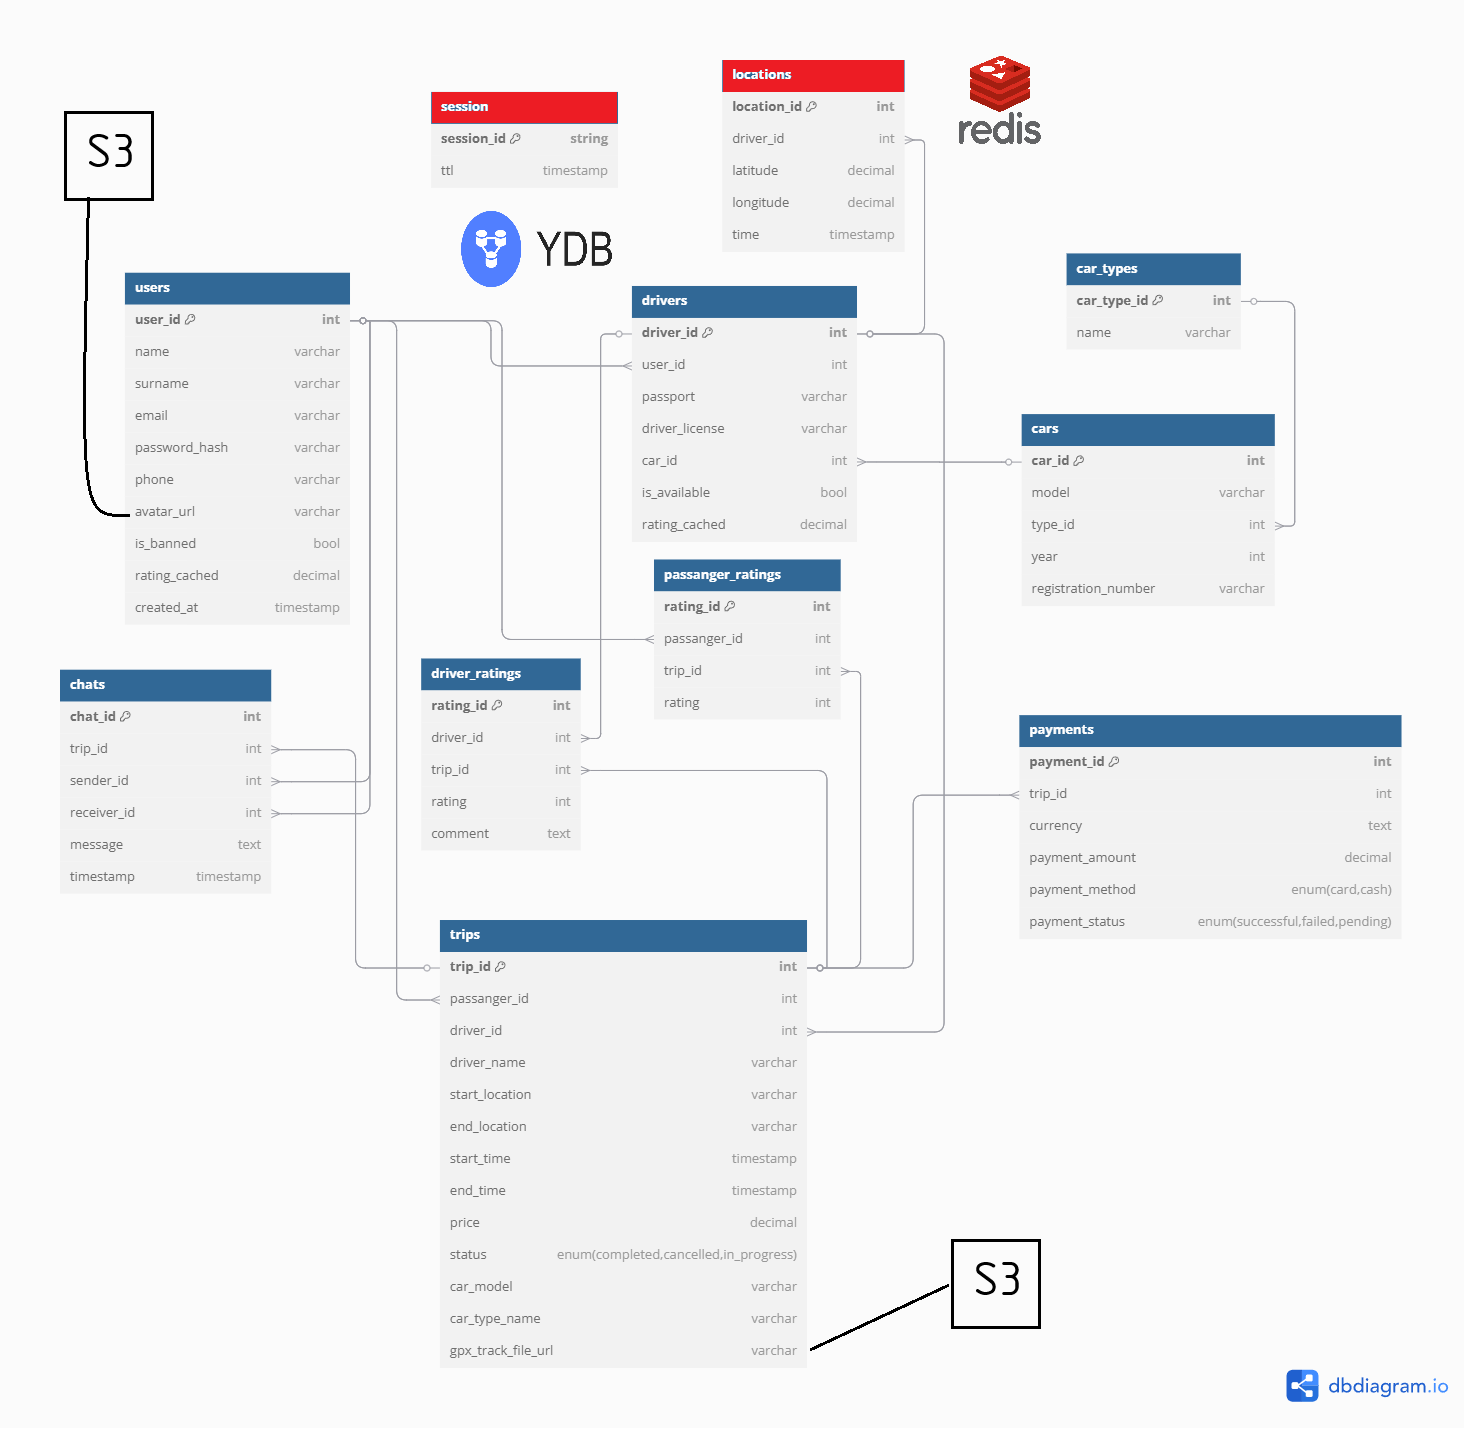
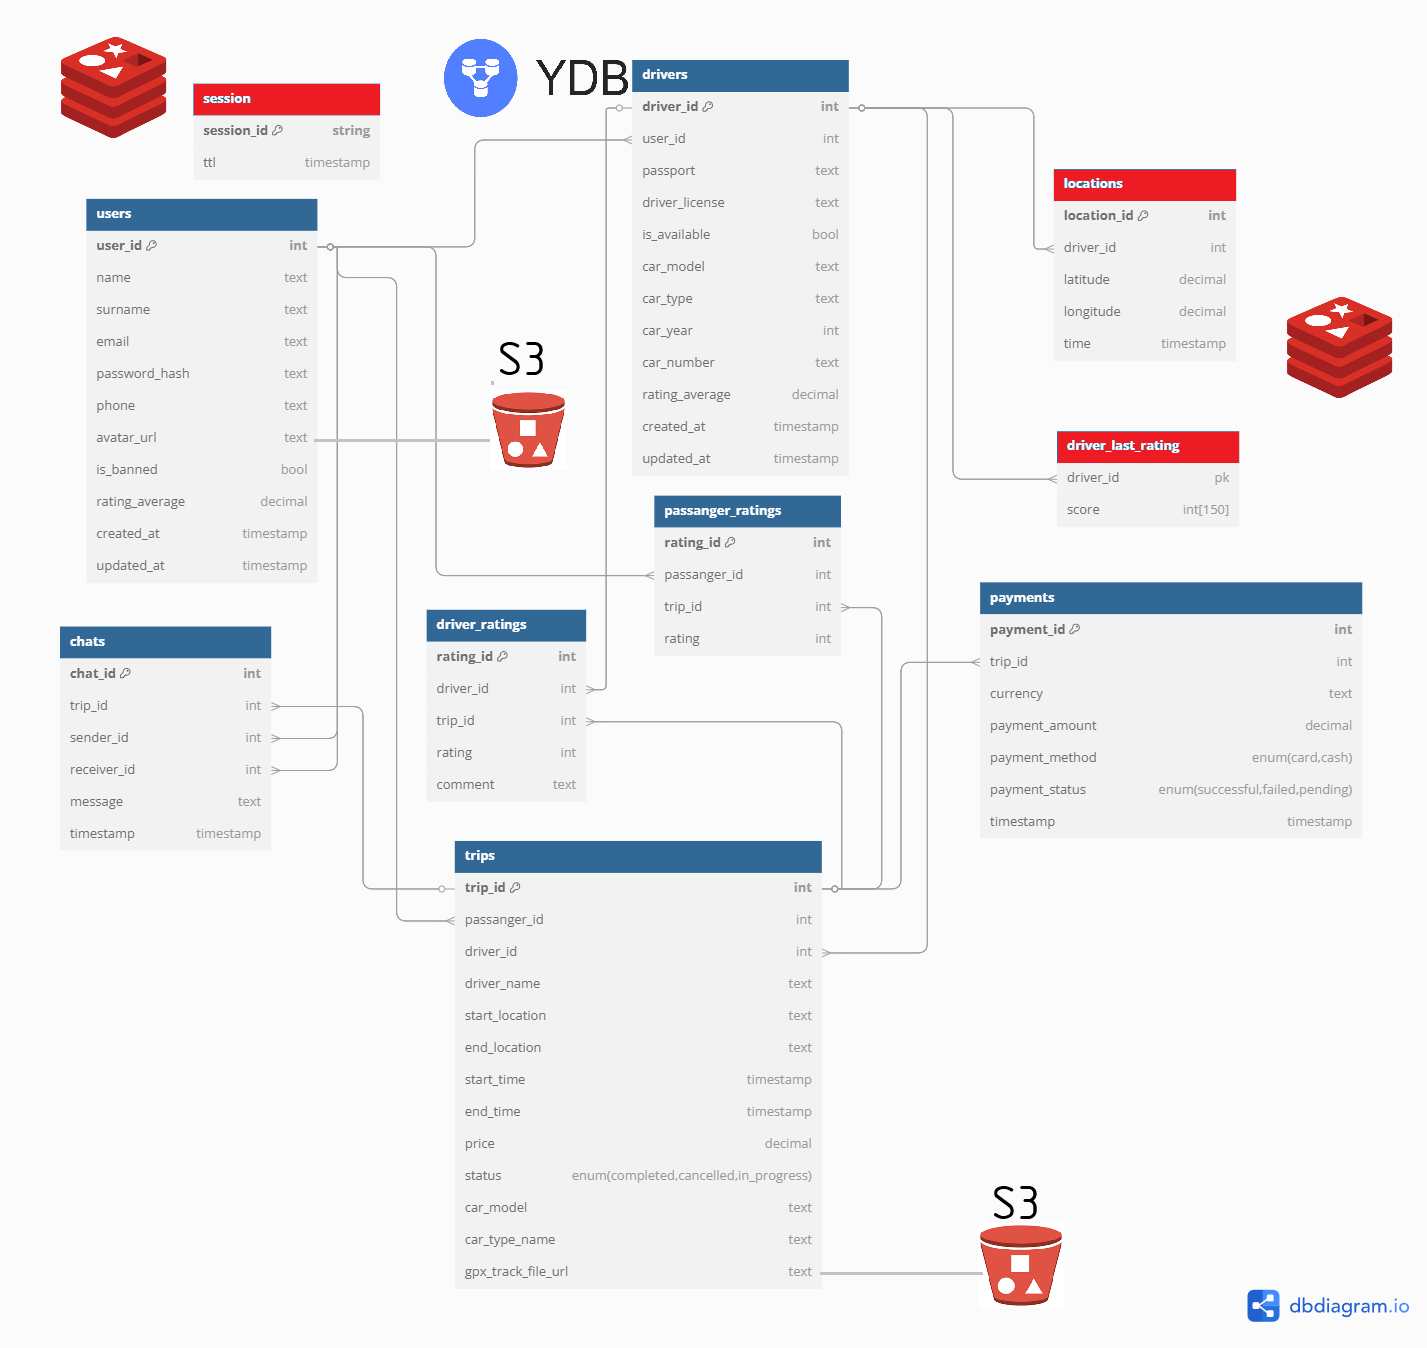
fix: hw 6 issues is resolved

diff --git a/README.md b/README.md
@@ -357,24 +357,6 @@ kubernetes удобен, поскольку:
 | **session** | Содержит сессии пользователя | `session_id`: id-сессии  `ttl`: время жизни |
 ### Размеры данных и нагрузки на чтение/запись
 
-В Таблице представлен размер данных  
-| Таблица               | Размер на 1 запись | Общий размер |
-|-----------------------|--------| -- |
-| **users**             | Пусть длина хэша (32 + 8 соль) байт, тогда размер записи будет (8 + 64 + 64 + 64 + 40 + 12 + 255 + 8) = 515 Б | 23,5 ГБ |
-| **passengers**        | 16 Б       | 0.7 ГБ |
-| **drivers**           | (24 + 32) Б  |   0.08 ГБ    |
-| **car_types**         | 24 Б      | 144 байта |
-| **cars**              | 62 Б       | 0.087 ГБ |
-| **trips**             | Оценим в 145 Б/запись  | 324,1 ГБ |
-| **chats**             | Предположим, что средняя длина сообщения ~100 символов, т.е. ~200Б. (8 + 8 +8 + 8 + 200 + 8) = 240 Б | 134.1 ГБ  |
-| **driver_ratings**    | Коментарий оценим в 60Б, тогда получим 92Б итого | 20.6 ГБ |
-| **passenger_ratings** |  32Б      | 50.1 ГБ |
-| **locations**         |  Следует использовать in-memory решения для быстрого доступа у данным маршрута. Порядка 40 Б/запись  | 65.4 ГБ/сутки* |
-| **payments**          |  enum'ы занимают порядка 2 байт. Всего 26Б/запись  | 58.1 ГБ |
-| **session** | In-memory. зашифрованные AES256 данные + TTL. 40 байт | 0.17 ГБ/сутки* |
-
-(*) Предполагается, что время жизни записей 1 день.
-
 | Таблица               | Чтение, IOPS | Запись, IOPS | Примечание |
 |-----------------------| -------- | ---- | ----------- |
 | **users**             | 327 | 45 | Запрос на получение осуществляется каждый раз, как происходит вход пользователя в приложение. При записи учтено изменение данных из предположения, что каждый 10000-ый пользователь меняет данные |
@@ -406,29 +388,44 @@ kubernetes удобен, поскольку:
 
 ![img](img/db_physical.png)
 
+### Размеры данных 
+
+В Таблице представлен размер данных  
+| Таблица               | Размер на 1 запись | Общий размер |
+|-----------------------|--------| -- |
+| **users**             | Пусть длина хэша (32 + 8 соль) байт, тогда размер записи будет (8 + 64 + 64 + 64 + 40 + 12 + 255 + 8 + 1 + 8 + 8 + 8) = 540 Б | 54 ГБ |
+| **drivers**           | 289 Б  |   32.1 ГБ    |
+| **trips**             | Оценим в 483 Б/запись  | 16.23 ТБ |
+| **chats**             | Предположим, что средняя длина сообщения ~100 символов, т.е. ~200Б. (8 + 8 +8 + 8 + 200 + 8) = 240 Б | 1.99 ТБ  |
+| **driver_ratings**    | Коментарий оценим в 60Б, тогда получим 92Б итого | 618.24 ГБ |
+| **passenger_ratings** |  32Б      | 752.64 ГБ |
+| **locations**         |  Следует использовать in-memory решения для быстрого доступа у данным маршрута. Порядка 40 Б/запись  | 65.4 ГБ/сутки* |
+| **payments**          |  enum 4 байта, валюта 32 байта. Всего 72 Б/запись  | 1.9 ТБ |
+| **session** | In-memory. зашифрованные AES256 данные + TTL. 40 байт | 0.17 ГБ/сутки* |
+| **driver_last_rating** | 150 чисел последних оценок. 2450 Б | 1.75 ГБ |
+
+(*) Предполагается, что время жизни записей 1 день.
+
 ### Индексы
 
 | Таблица | Индекс |
 | ------- | ------ |
-users | user_id - первичный ключ
-| drivers | driver_id - первичный ключ <br> user_id - индекс для быстрого поиска водителя по id пользователя |
-| car_types | car_type_id - первичный ключ |
-| cars | car_id - PK |
-| trips | trip_id - PK <br> driver_id (**hash**) - быстрый поиск по водителям <br> passenger_id (**hash**) - быстрый поиск по пассажирам (история поездок) |
-| chat | chat_id - PK <br> trip_id (**hash**) - для поиска по поездке |
-| driver_ratings | rating_id - PK <br> driver_id (**hash**) - выстрый поиск по водителю |
-| passenger_ratings | rating_id - PK <br> passenger_id (**hash**) - выстрый поиск по пассажиру |
-| payments | payment_id - PK <br> trip_id (**hash**) - для проверки статуса оплаты по конкретной поездке|
+| drivers | user_id (**hash**) - индекс для быстрого поиска водителя по id пользователя |
+| trips | driver_id (**hash**) - быстрый поиск по водителям <br> passenger_id (**hash**) - быстрый поиск по пассажирам (история поездок) |
+| chat | trip_id (**hash**) - для поиска по поездке |
+| driver_ratings | driver_id (**hash**) - выстрый поиск по водителю |
+| passenger_ratings | passenger_id (**hash**) - выстрый поиск по пассажиру |
+| payments | trip_id (**hash**) - для проверки статуса оплаты по конкретной поездке|
 
 ### Денормализация
 
-Чтобы избежать большого количество JOINов следует применять денормализацию. В данном случае запросы на чтение происходят чаще, поэтому надо оптимизировать некоторые таблицы на чтение. 
+Чтобы избежать JOINов следует применять денормализацию. В данном случае запросы на чтение происходят чаще, поэтому надо оптимизировать некоторые таблицы на чтение. 
 
-| Таблица | денормализация |
+<!-- | Таблица | денормализация |
 | - | - |
 | trips | Добавим поля: <br> driver_name <br> car_model <br> car_type |
 | drivers | rating_mark - закешированный рейтинг, который обнавляется асинхронно после добавления новых отзывов |
-| users | rating_mark - закешированный рейтинг, который обнавляется асинхронно после добавления новых отзывов | 
+| users | rating_mark - закешированный рейтинг, который обнавляется асинхронно после добавления новых отзывов |  -->
 
 ### Выбор СУБД
 
@@ -440,37 +437,25 @@ users | user_id - первичный ключ
 | - | - | - |
 | users | YDB |  Критичные данные: учетная запись. транзакции
 | drivers | YDB | Данные о водителе (паспорт) и автомобиле (СТС) транзакции
-| car_types | YDB |
-| cars | YDB | транзакции |
-| trips | YDB | транзакции |
-| chats | YDB | транзакции |
-| driver_ratings | YDB |
-| passanger_ratings | YDB |
+| trips | YDB | Большой объем данных, транзакции |
+| chats | YDB | Большой объём |
+| driver_ratings | YDB | Транзакции |
+| passanger_ratings | YDB | Транзакции |
 | payments | YDB | Критически важные операции. Транзакции, строгая консистентность  |
 | locations | redis | Очень большое количество запросов на чтение/запись. Следует использовать встроенный формат хранения геоданных. Быстрый доступ к данным |
 | sessions | redis | Быстрый доступ к данным. Не страшно потерять. | 
+| driver_last_rating | redis | Нужен быстрый доступ для рассчета рейтинга в реальном времени |
 
 ### Шардирование и резервирование
 
 Документация YDB для достижения сохранности данных рекомендует использовать топологию **mirror-3-dc**.
-Зоны отказа выберем из "треугольника" Москва-Краснодар-Новосибирск, чтобы обеспечить latency между ДЦ ~15 мс.
+Зоны отказа выберем из "треугольника" Москва-Краснодар-Новосибирск, чтобы обеспечить latency между ДЦ ~25 мс.
 Резервирование и консистентность обеспечивается синхронной репликацией на основе RAFT-протокола.
 
-| Таблица | Шардирование | Резервирование |
-| - | - | - |
-| users | hash-шардировние по PK| mirror-3-dc: данные хранятся в 3ёх копиях. Автоматическое переключение на резервный узел (failover). PITR |
-| drivers |  Hash - шардировние по PK | mirror-3-dc: данные хранятся в 3ёх копиях. PITR |
-| car_types | - | backup | 
-| cars | Автошардировние по driver_id | mirror-3-dc. PITR |
-| trips | HASH-шардирование по trip_id. Дополнительно партиционирование по годам | mirror-3-dc. PITR |
-| chats | HASH-шардирование по trip_id, sender_id, reciever_id | mirror-3-dc | mirror-3-dc. PITR |
-| driver_ratings | HASH-шардирование по driver_id | mirror-3-dc |
-| passanger_rating | HASH-шардирование по passanger_id | mirror-3-dc |
-| payments | HASH-шардирование по trip_id
-| locations | изолированный redis в каждом ДЦ | отсутствует синхронизация между ДЦ. Локальный кластер Redis (master + slave) в ЦОДах | 
-| session | изолированный redis в каждом ДЦ | аналогично locations |
+Для таблиц `session`, `driver_last_rating` и `locations` развернём локальные
+реплики Redis в рамках master-slave механизма. Расположить можно децентрализованно, поскольку эти данные фактически не зависят друг от друга и такое размещение поможет снизить RTT, расположив СУБД максимально близко к потребителю. Для репликации используются RDB-снапшоты. Для auto failover - Redis Sentinel.
 
-
+## 7. Алгоритмы
 
 ## Источники
 1. https://dev.go.yandex/blog/yandex-taxi-reliability-2024-05-30
